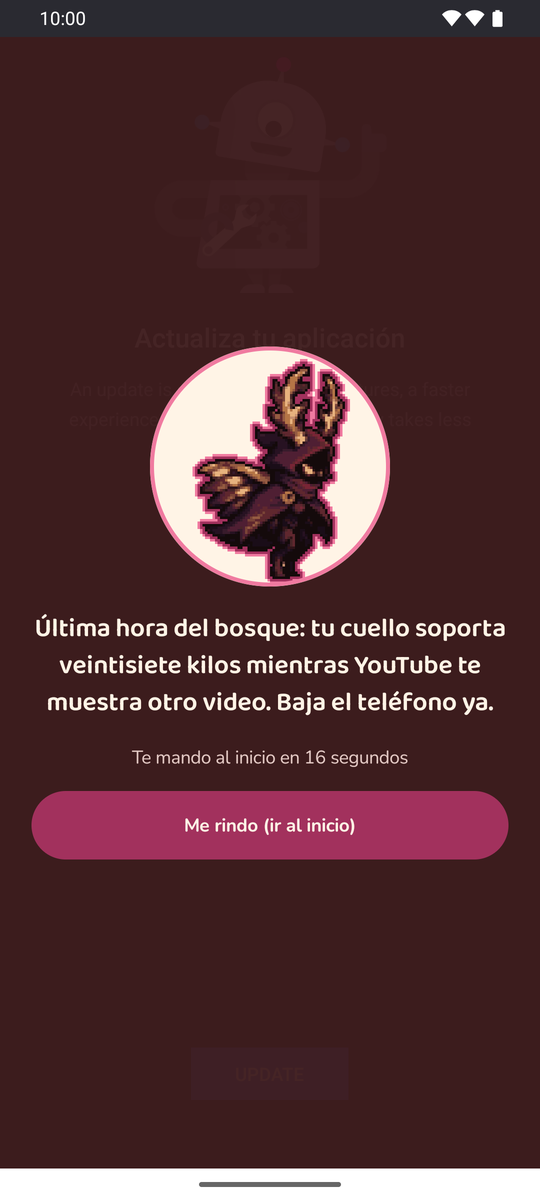
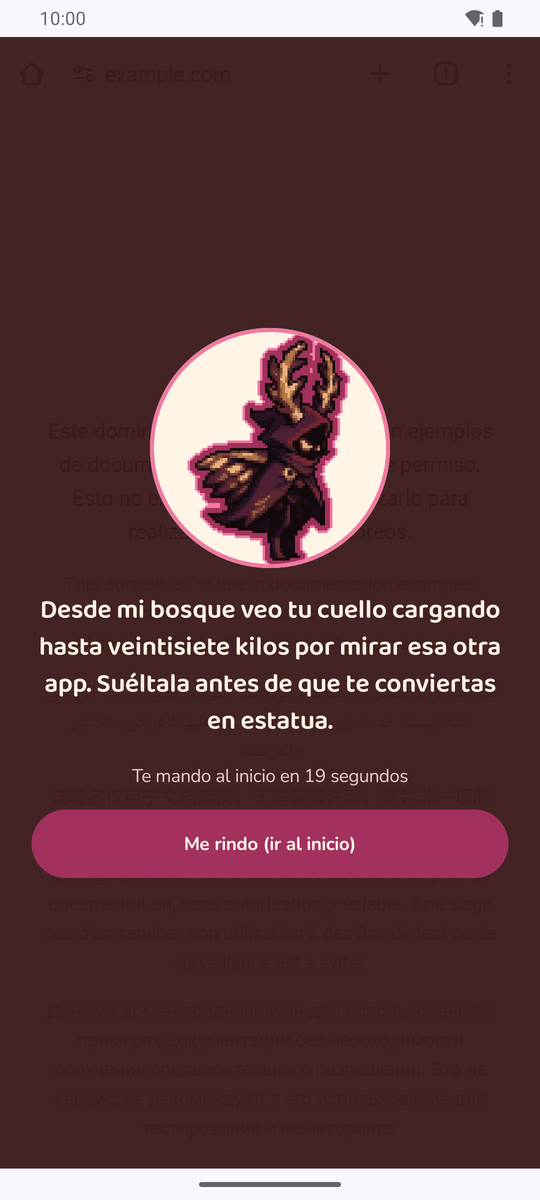
docs(readme): refresh screenshots for v1.0.6 and describe its fixes

Changed region(s): [[0.0593, 0.2467, 0.9481, 0.74], [0.0, 0.0, 1.0, 0.0308]]

diff --git a/README.md b/README.md
@@ -34,7 +34,7 @@ Autora: **Paula Sofia Gonzalez Zambrano**.
 
 ## Recorrido por la app
 
-Capturas tomadas en un emulador Android 15 (API 35) con la versión 1.0.5, en español y tema oscuro. Las frases de Likka de los niveles 1–3 son reales: las generó la IA durante la prueba.
+Capturas tomadas en un emulador Android 15 (API 35), en español y tema oscuro. El onboarding, el overlay, la notificación y "Acerca de" son de la versión 1.0.6; el resto de las pantallas no cambió desde la 1.0.5. Las frases de Likka de los niveles 1–3 son reales: las generó la IA durante la prueba.
 
 ### 1. Onboarding
 La primera vez, Likka se presenta, explica los tres niveles y qué datos usa, y pide los permisos. En teléfonos Xiaomi aparece un paso extra ("Ajustes de tu teléfono") con la guía de inicio automático y batería; en el emulador no aparece.
@@ -73,7 +73,7 @@ Pantalla principal: estado de Likka, minutos en redes de hoy, avisos y racha de 
 </table>
 
 ### 3. Likka sobre otras apps
-Likka aparece encima de la app vigilada (aquí YouTube) cuando inclinas el cuello o pasas mucho tiempo en redes, y sube de nivel si no le haces caso. En el nivel 3 hay una cuenta regresiva y luego te manda a la pantalla de inicio.
+Likka aparece encima de la app vigilada cuando inclinas el cuello o pasas mucho tiempo en redes, y sube de nivel si no le haces caso: nivel 1 a los 10 segundos de mala postura (o 15 minutos en redes), nivel 2 dos minutos después y nivel 3 tres minutos después. En el nivel 3 hay una cuenta regresiva de 20 segundos y luego te manda a la pantalla de inicio. Si vuelves a la app en menos de 5 minutos, Likka regresa directamente en el nivel 2. En estas capturas la app vigilada es Chrome, añadida desde Ajustes → "Añadir app" (para la IA solo cuenta como "otra app").
 
 <table>
   <tr>
@@ -86,7 +86,7 @@ Likka aparece encima de la app vigilada (aquí YouTube) cuando inclinas el cuell
     <td align="center"><img src="docs/screenshots/33-overlay-reaction-annoyed.png" width="200"><br><sub>Reacción: lo tocas varias veces</sub></td>
     <td align="center"><img src="docs/screenshots/34-overlay-drag.png" width="200"><br><sub>Reacción: lo arrastras</sub></td>
     <td align="center"><img src="docs/screenshots/36-overlay-resting-sit.png" width="200"><br><sub>En pausa: Likka sentado</sub></td>
-    <td></td>
+    <td align="center"><img src="docs/screenshots/37-overlay-ejected-home.png" width="200"><br><sub>Tras el nivel 3: de vuelta al inicio</sub></td>
   </tr>
 </table>
 
@@ -104,7 +104,7 @@ Activar o desactivar a Likka, vibración, tema, idioma, apps vigiladas, mensajes
     <td align="center"><img src="docs/screenshots/45-review-permissions.png" width="200"><br><sub>Revisar permisos</sub></td>
     <td align="center"><img src="docs/screenshots/46-about-credits.png" width="200"><br><sub>Acerca de y créditos</sub></td>
     <td align="center"><img src="docs/screenshots/47-license-dialog.png" width="200"><br><sub>Licencia de tipografía</sub></td>
-    <td align="center"><img src="docs/screenshots/41-settings-bottom.png" width="200"><br><sub>Ajustes (final)</sub></td>
+    <td align="center"><img src="docs/screenshots/48-license-dialog-scrolled.png" width="200"><br><sub>Licencia, más abajo</sub></td>
   </tr>
 </table>
 
@@ -118,6 +118,16 @@ Activar o desactivar a Likka, vibración, tema, idioma, apps vigiladas, mensajes
     <td align="center"><img src="docs/screenshots/52-settings-english.png" width="200"><br><sub>Settings en inglés</sub></td>
   </tr>
 </table>
+
+## Novedades de la versión 1.0.6
+Correcciones encontradas al recorrer la app para tomar estas capturas:
+- **Likka no se mueve al abrir su frase.** Al tocarlo en el nivel 1, la burbuja crece hacia arriba y Likka se queda en su sitio (antes bajaba unos 250 px y era difícil volver a tocarlo).
+- **Contador de avisos exacto.** Reanudar una pausa ya no suma un aviso de más.
+- **Frases de la IA más honestas.** La IA ya no menciona grados ni dice que el teléfono está "recto": habla solo del peso que carga el cuello.
+- **Onboarding.** Al desplazar el texto ya no queda pegado a la barra de estado.
+- **Licencias de tipografías.** El texto se muestra en párrafos limpios con separadores, sin modificar la licencia original.
+- **Ventana flotante.** Se ajustó la opacidad cuando Likka está oculto, para respetar las reglas de Android 12 sobre ventanas superpuestas.
+- **Design system** actualizado a la paleta frambuesa que usa la app.
 
 ## Privacidad
 - Al servidor intermedio solo se envía: la app en uso (o "otra app" si la añadiste tú), los minutos, el ángulo, el nivel, el motivo del aviso y el idioma. Nunca nombres de paquetes, cuenta ni ubicación.
